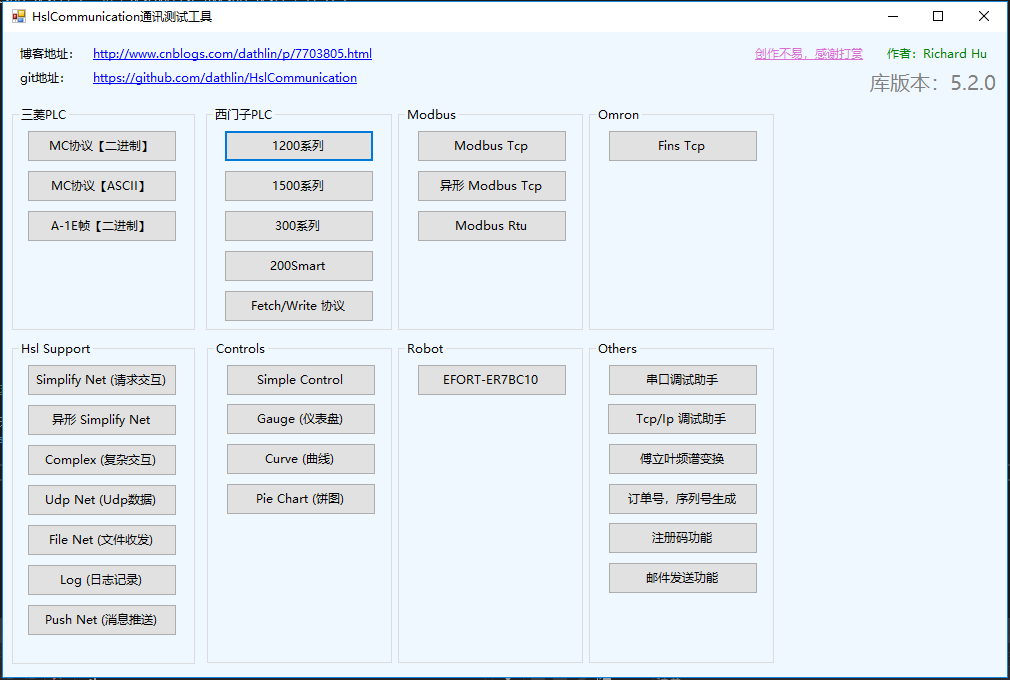
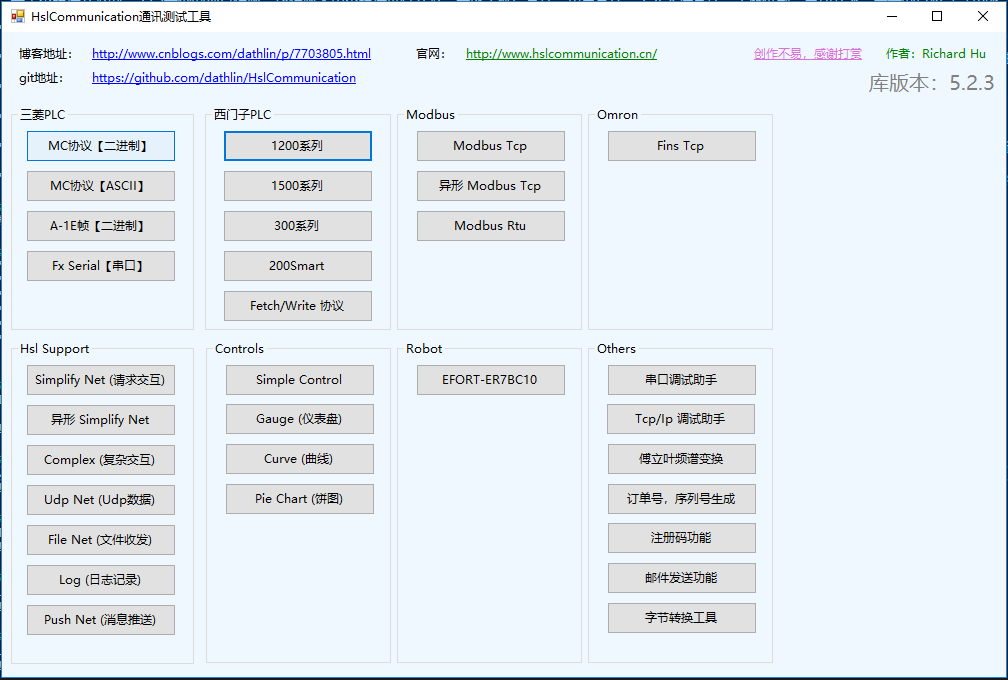
docs(readme): 更新说明及demo节目。

diff --git a/README.md b/README.md
@@ -20,13 +20,8 @@
 ## CopyRight
 本组件版权归Richard.Hu所有 [ (C) 2018 Richard.Hu, All Rights Reserved ]
 
-## Version Declaration
-Version 5.X 的计划：
-* 提升组件的稳定性，尤其是在高并发的情况下
-* 扩展其他的PLC和设备通讯支持
-* 文档手册的编写
-* Java版本的支持
-
+## Official Website
+唯一官网：[http://www.hslcommunication.cn/](http://www.hslcommunication.cn/)
 
 ## License
 使用请遵循LGPL-3.0协议说明，除了协议中已经规定的内容外，附加下面三个条款（与原协议如有冲突以附加条款为准）：
@@ -112,7 +107,7 @@ The goal of this project is to develop a .Net and java. Most software systems wi
 
 * **HslCommunicationDemo项目** 基于本组件开发的一个西门子，三菱，欧姆龙，Modbus-Tcp，SimplifyNet，ComplexNet，FileNet等的通讯测试工具，方便的进行读写测试，不需要额外的编写代码。
 
-* **HslSharp项目** 基于本组件深度定制实现的OPC UA网关服务器，实现基于三菱，西门子，欧姆龙，modbus等HslCommunication支持的协议创建可配置的OPC UA服务器。下载地址：[HSLSharp.zip](https://github.com/dathlin/HslCommunication/raw/master/Download/HSLSharp.zip)
+* **SharpNodeSettings项目** 数据网关项目，基于可配置的文件创建的数据中心，支持redis公开和opc ua公开。[https://github.com/dathlin/SharpNodeSettings](https://github.com/dathlin/SharpNodeSettings)
 
 ## Contribution
 热烈欢迎对本项目的代码提出改进意见，可以发起Pull Request，对于代码量贡献较多的小伙伴，会有额外的组件使用权，并在特别感谢里写明。
@@ -132,7 +127,7 @@ If this library really helps you, you can support me by AliPay. Please choose th
 ![打赏](https://raw.githubusercontent.com/dathlin/HslCommunication/master/imgs/support.png)
 
 ## HslCommunicationDemo
-v5.2.0 function, support
+v5.2.3 function, support
 ![Picture](https://raw.githubusercontent.com/dathlin/HslCommunication/master/imgs/demo.png)
 
 ## Controls
